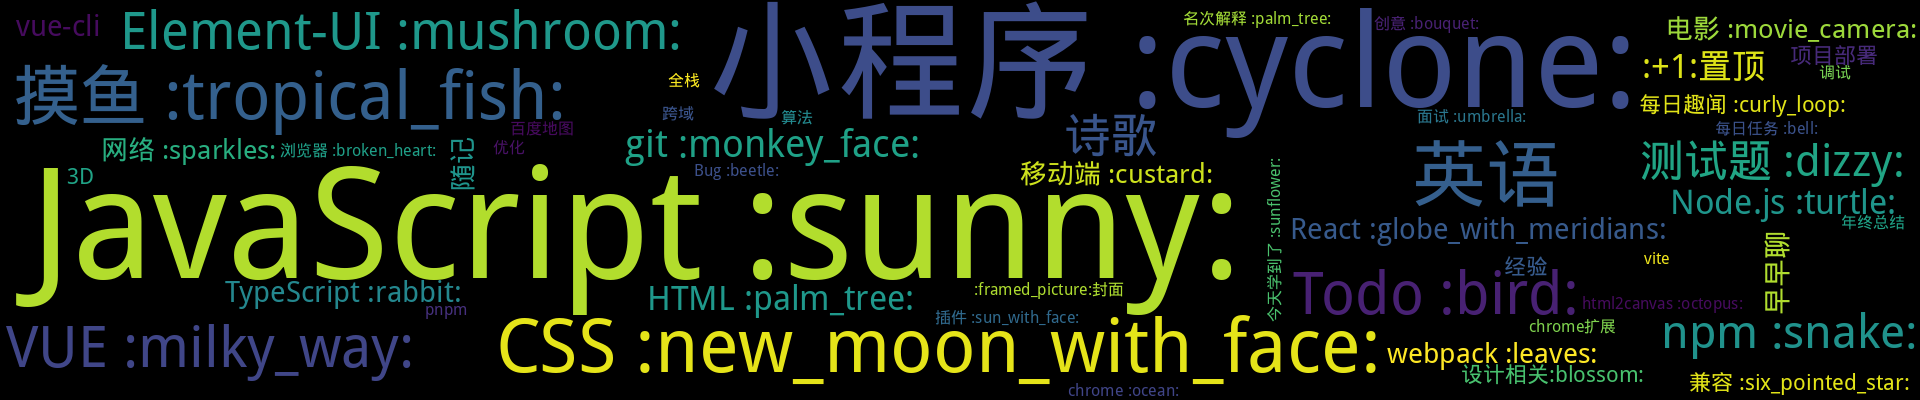
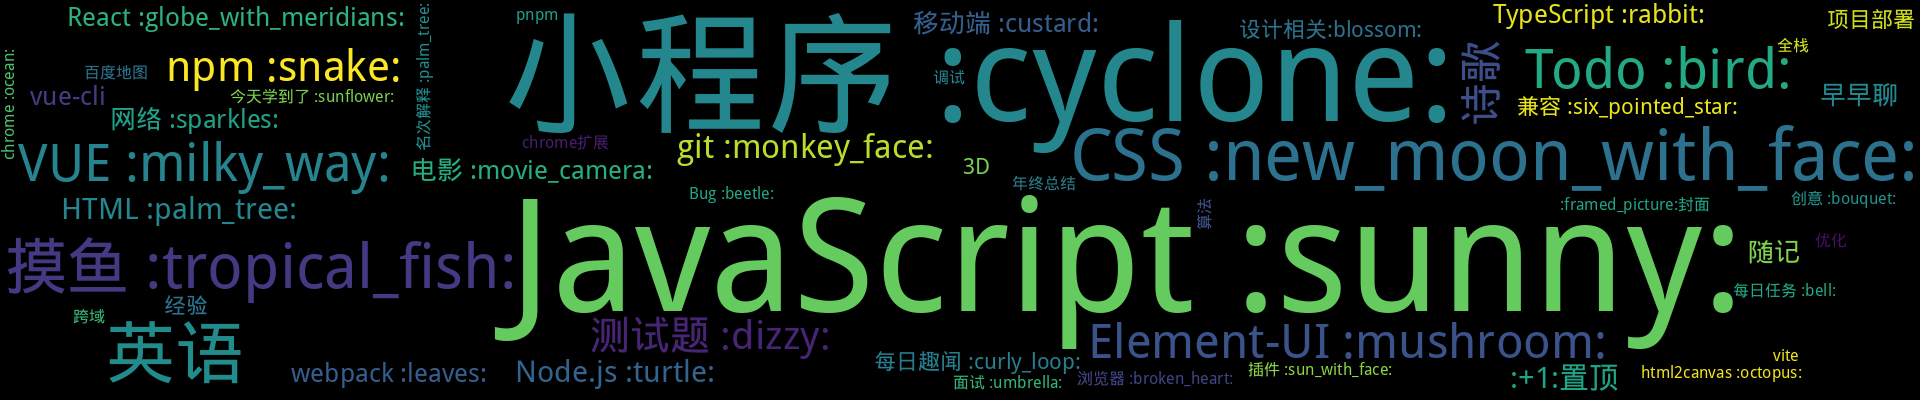
Update from Github Action

diff --git a/README.md b/README.md
@@ -3,7 +3,7 @@
 <p align='center'>
     <img src="https://badgen.net/badge/labels/55"/>
     <img src="https://badgen.net/github/issues/smileyby/ghiblog"/>
-    <img src="https://badgen.net/badge/last-commit/2023-02-14 14:40:09"/>
+    <img src="https://badgen.net/badge/last-commit/2023-02-20 16:07:56"/>
     <img src="https://badgen.net/github/forks/smileyby/ghiblog"/>
     <img src="https://badgen.net/github/stars/smileyby/ghiblog"/>
     <img src="https://badgen.net/github/watchers/smileyby/ghiblog"/>
@@ -38,6 +38,17 @@
 - [你想住在中国哪里？（转自阮一峰周刊第180期）](https://github.com/smileyby/notes/issues/167)  <sup>0 :speech_balloon:</sup>  	 
 - [掘金小册：小程序底层框架实现原理-笔记](https://github.com/smileyby/notes/issues/165)  <sup>0 :speech_balloon:</sup>  	 
 ## 最新 :new: 
+
+#### [flex 布局下为什么文字超出宽度不换行？](https://github.com/smileyby/notes/issues/261) <sup>0 :speech_balloon:</sup> 	 2023-02-20 16:07:31
+
+:label: : [CSS :new_moon_with_face:](https://github.com/smileyby/ghiblog/labels/CSS%20%3Anew_moon_with_face%3A)
+
+
+
+[更多>>>](https://github.com/smileyby/notes/issues/261)
+
+---
+
 
 #### [Vue.use Vue.component 都做了什么？](https://github.com/smileyby/notes/issues/260) <sup>0 :speech_balloon:</sup> 	 2023-02-14 14:39:43
 
@@ -85,17 +96,6 @@ Run "pnpm setup" to create it automatically, or set the global-bin-dir setting,
 。。。
 
 [更多>>>](https://github.com/smileyby/notes/issues/257)
-
----
-
-
-#### [git cherry pick](https://github.com/smileyby/notes/issues/256) <sup>0 :speech_balloon:</sup> 	 2023-02-01 04:22:41
-
-:label: : [git :monkey_face:](https://github.com/smileyby/ghiblog/labels/git%20%3Amonkey_face%3A)
-
-https://www.ruanyifeng.com/blog/2020/04/git-cherry-pick.html
-
-[更多>>>](https://github.com/smileyby/notes/issues/256)
 
 ---
 
@@ -162,8 +162,9 @@ https://www.ruanyifeng.com/blog/2020/04/git-cherry-pick.html
 </details>
 
 <details>
-<summary>CSS :new_moon_with_face:	<sup>21:newspaper:</sup></summary>
+<summary>CSS :new_moon_with_face:	<sup>22:newspaper:</sup></summary>
 
+- [flex 布局下为什么文字超出宽度不换行？](https://github.com/smileyby/notes/issues/261)  <sup>0 :speech_balloon:</sup>  	 
 - [::v-deep >>> /deep/ 原理以及不生效的原因](https://github.com/smileyby/notes/issues/258)  <sup>2 :speech_balloon:</sup>  	 
 - [CSS：conic-gradient 绘制饼形图](https://github.com/smileyby/notes/issues/245)  <sup>0 :speech_balloon:</sup>  	 
 - [有趣的CSS测试](https://github.com/smileyby/notes/issues/238)  <sup>0 :speech_balloon:</sup>  	 
